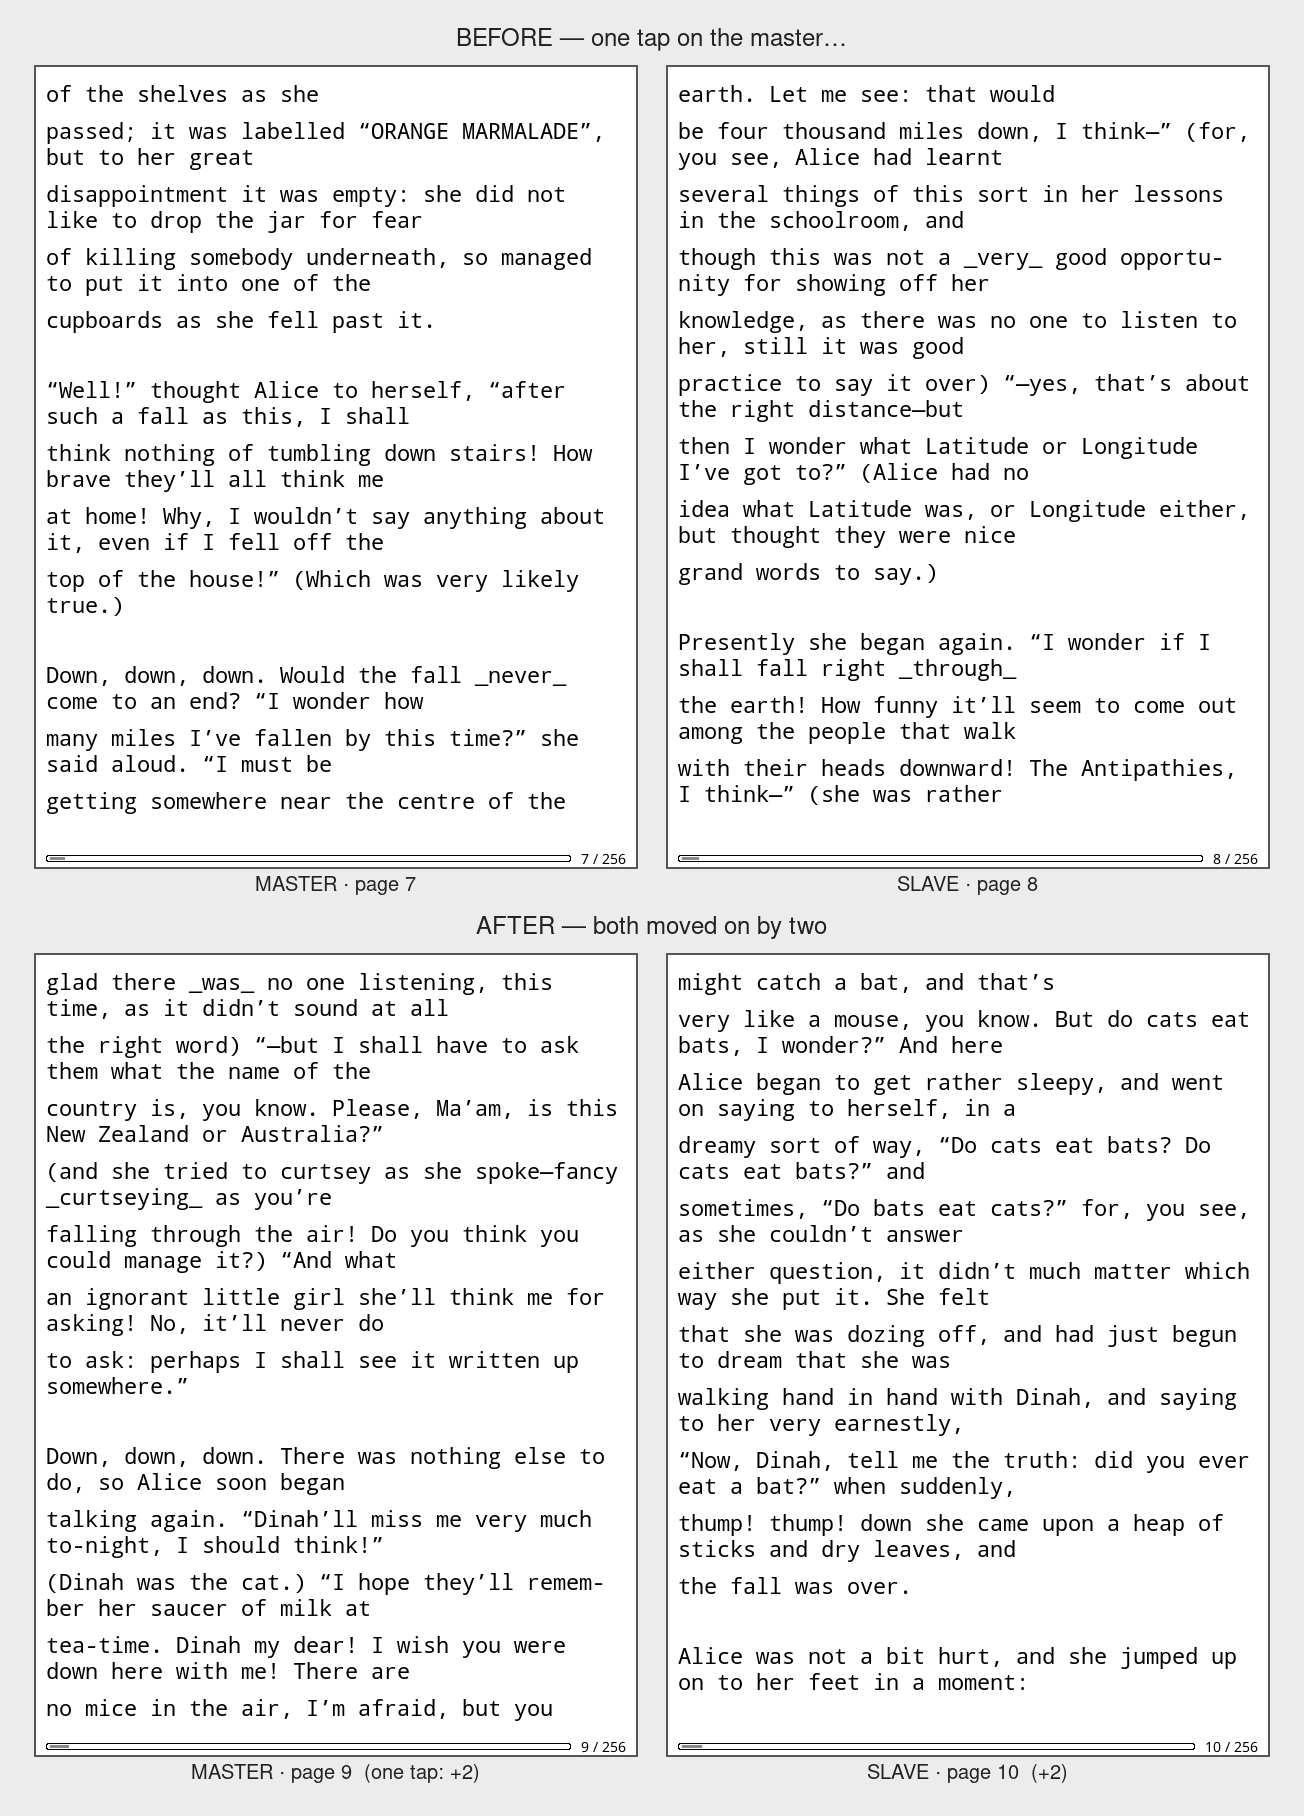
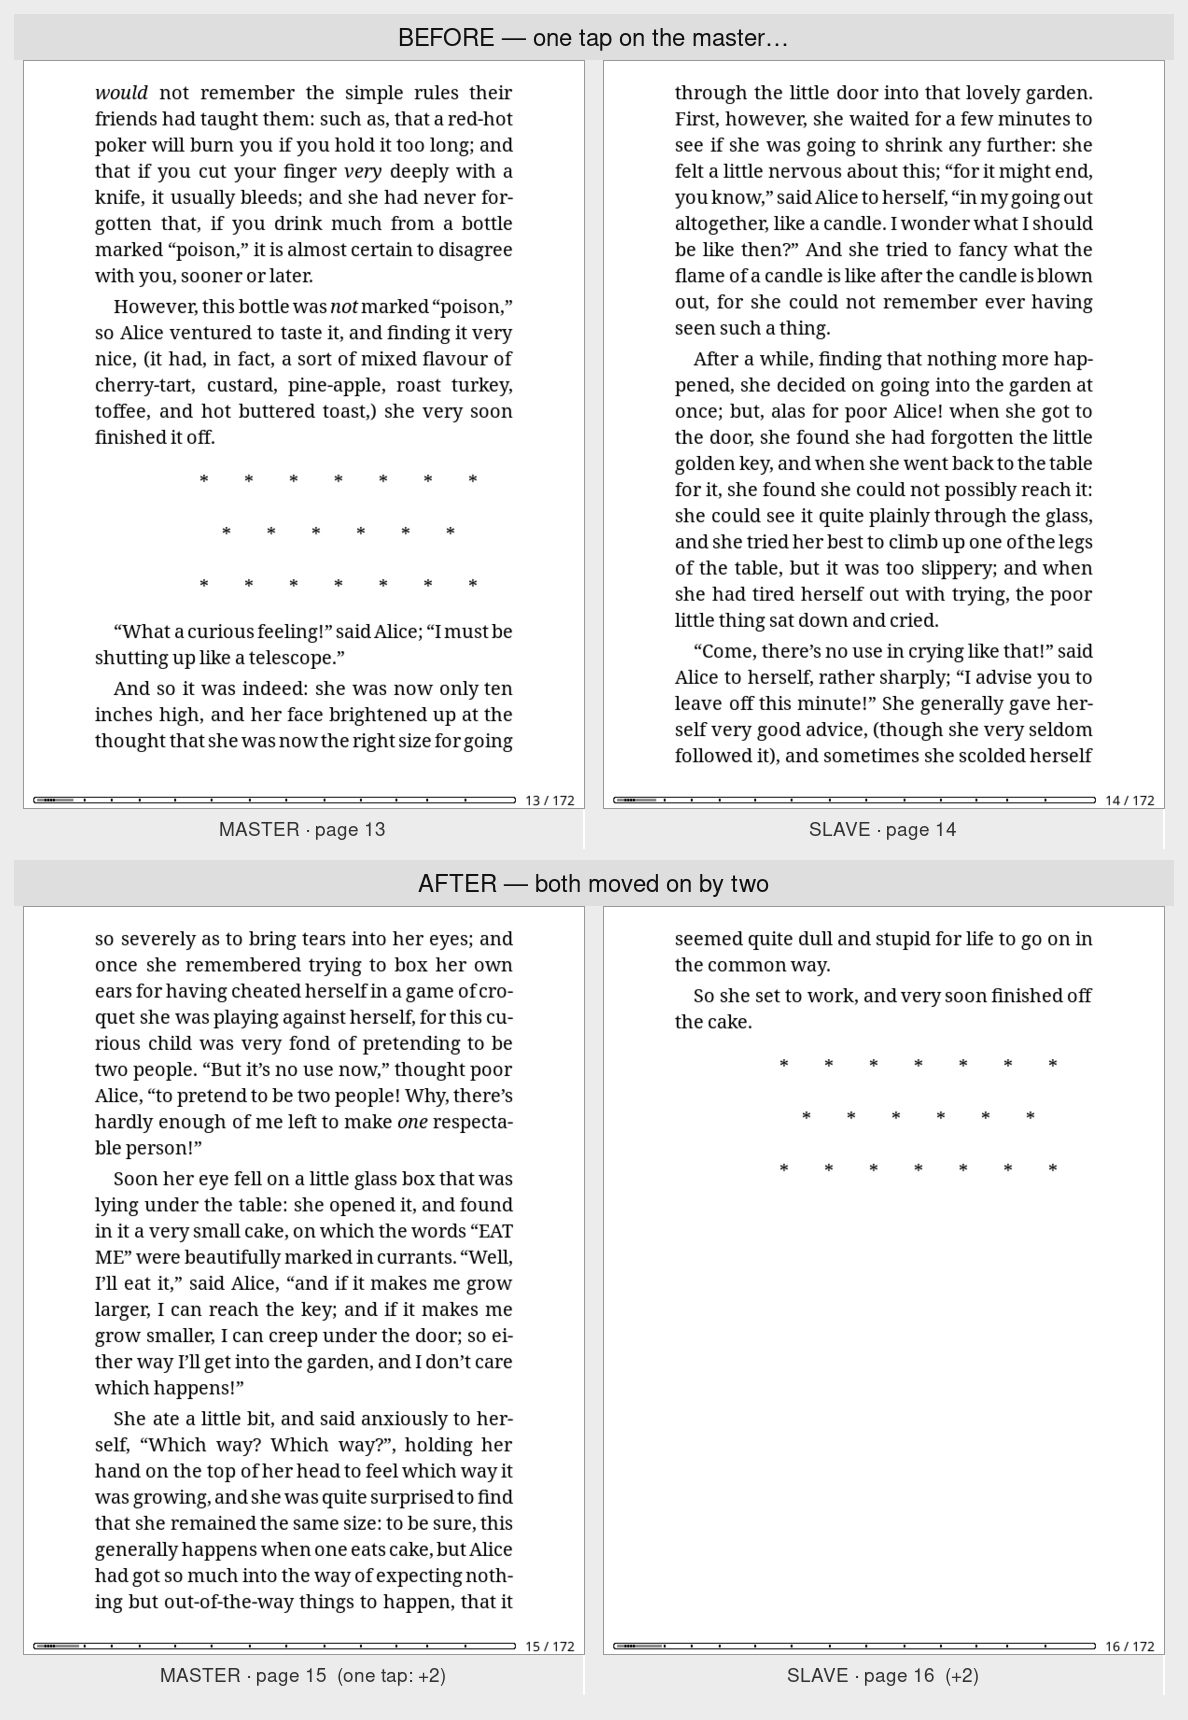
Set the screenshots in a book face rather than a terminal one
The reader shot was a plain text file, and crengine renders those as
preformatted text: monospace, ragged, no indents — which is what a listing
looks like, not a book. It is now the Gutenberg EPUB of Alice, laid out in
Noto Serif with justified paragraphs and margins worth the name, which is
also what anyone reading on a Kindle would actually see.

Same story as before, retaken: pages 13 and 14, one tap, 15 and 16. The
caption quotes the new page boundary, since the old one paginated
differently and the sentence that ran across the gap is not the same
sentence any more.

Claude-Session: https://claude.ai/code/session_01KR4BqxWLnmB3ZRscvJFTtz

diff --git a/README.md b/README.md
@@ -9,11 +9,11 @@ page and a right page, and a single tap moves both.
 
 ![One tap on the master moves both devices on by two](screenshots/page-turn.png)
 
-Two copies of KOReader, side by side, reading *Alice's Adventures in
-Wonderland*. The master is on page 7 and the slave on page 8, and the prose
-runs straight across the gap: the left screen ends *"getting somewhere near
-the centre of the"* and the right one picks up *"earth. Let me see: that
-would be four thousand miles down…"*. One tap moves the pair to 9 and 10 —
+Two copies of KOReader, side by side, reading Project Gutenberg's *Alice's
+Adventures in Wonderland*. The master is on page 13 and the slave on page
+14, and the prose runs straight across the gap: the left screen ends *"she
+was now the right size for going"* and the right one picks up *"through the
+little door into that lovely garden."* One tap moves the pair to 15 and 16 —
 by two, so no page is read twice and none is skipped.
 
 It also does **mirror mode**, where both devices show the same page — handy
@@ -415,16 +415,19 @@ The harness is not the last word, though — see below.
 
 The screenshots above are two copies of **KOReader v2026.03** running the
 plugin: separate processes, separate settings directories, paired over a real
-socket, with Project Gutenberg's *Alice in Wonderland* paginated by KOReader's
-own crengine and page turns arriving as real key events through its input
-stack. The status line in the settings screenshot — `Master · Kindle-Right ·
-pages 7–8` — is the plugin reporting the live connection.
+socket, with Project Gutenberg's *Alice in Wonderland* — the EPUB, laid out
+by KOReader's own crengine in Noto Serif — and page turns arriving as real
+events through its input stack. The status line in the settings screenshot —
+`Master · Kindle-Right · pages 7–8` — is the plugin reporting the live
+connection.
 
 Both of the features above were checked there too, not only in the suite:
 
-- **Typography.** Raising the font size from 22 to 24 in the master's own
-  settings panel moved the slave with it. Both books reflowed from 256 pages
-  to 279, and the spread stayed intact.
+- **Typography.** Raising the font size in the master's own settings panel
+  moved the slave with it, on a real EPUB. The follower relaid the book out,
+  put itself back on the right page without waiting for a page turn, and the
+  prose still ran across the gap — with nothing said about the two devices
+  disagreeing while the change was in flight.
 - **Sending the book.** With the master's library hidden from the slave (a
   tmpfs over it in a private mount namespace, so the file really was
   missing), the slave asked for the book, received all 174,311 bytes —
